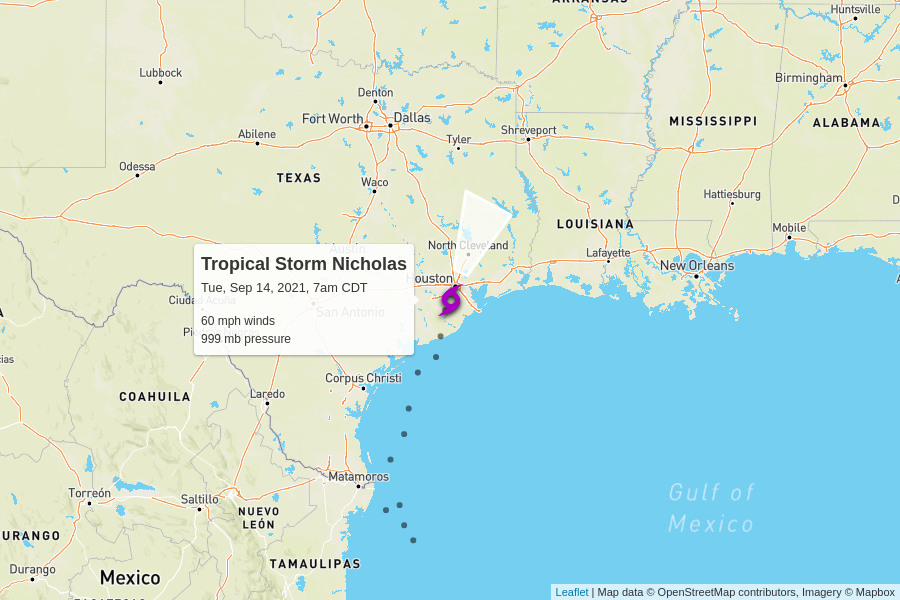
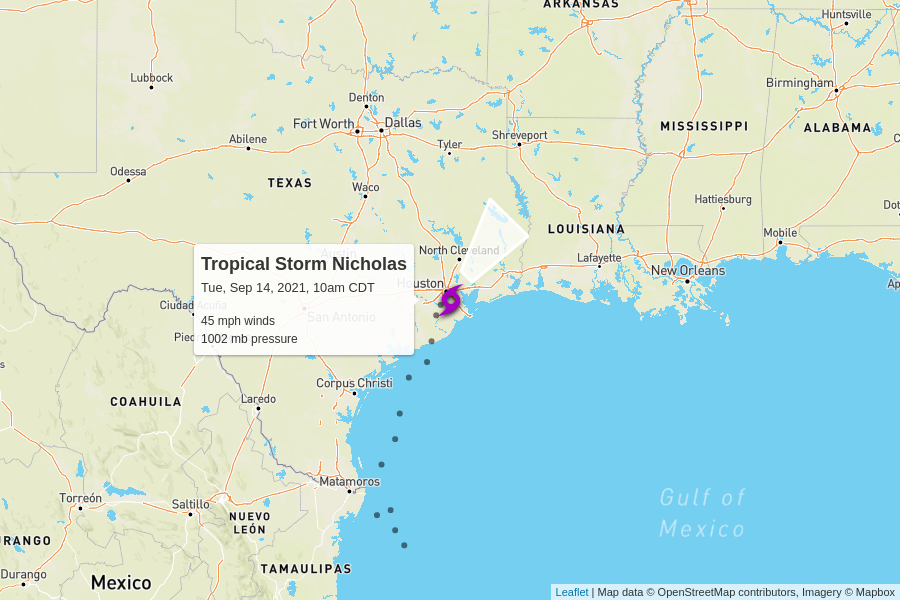
automatic update

diff --git a/docs/index.html b/docs/index.html
@@ -100,7 +100,7 @@
         <td colspan="6" class="storm category-0" >
           <h2>
             Tropical Storm Nicholas
-            <p class="updated">last updated <span data-time>2021-09-14T12:00:00.000Z</span></p>
+            <p class="updated">last updated <span data-time>2021-09-14T15:00:00.000Z</span></p>
           </h2>
         </td>
       </tr>
@@ -115,12 +115,12 @@
       </tr>
       <tr>
         <td class="spacer"></td>
-        <td>60 mph</td>
-        <td>999 mb</td>
+        <td>45 mph</td>
+        <td>1002 mb</td>
         <td>
-          8 mph to the north-northeast
+          6 mph to the northeast
           <br/>
-          <span style="display: inline-block; font-size: 1.5em; transform: rotate(25deg);">↑</span>
+          <span style="display: inline-block; font-size: 1.5em; transform: rotate(40deg);">↑</span>
         </td>
         <td><a href="https://raw.githubusercontent.com/mgwalker/atlantic-hurricanes/main/data/csv/AL142021.csv">AL142021.csv</a></td>
         <td><a href="https://www.nhc.noaa.gov/archive/2021/NICHOLAS.shtml?">NHC advisories</a></td>
